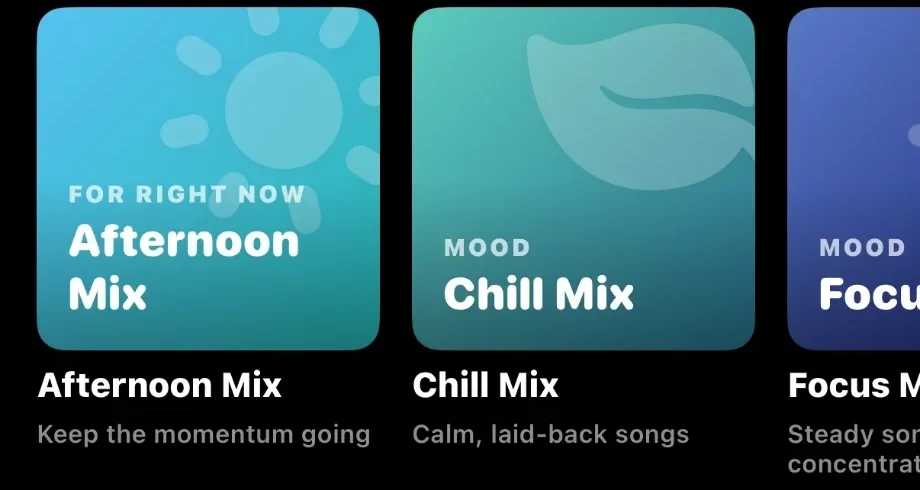
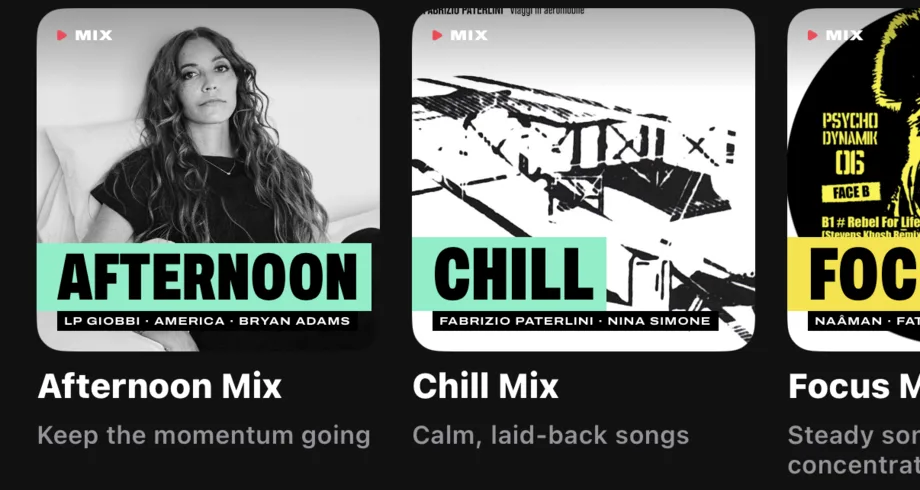
docs: the Made For You screenshot shows the editorial covers

diff --git a/README.md b/README.md
@@ -57,7 +57,7 @@ Each word lights as it is sung. The lines around it fall away in size, blur and 
 
 ## Made for you
 
-<img src="docs/assets/made-for-you.webp" width="640" alt="Three generated mixes side by side: Afternoon Mix labelled FOR RIGHT NOW, Chill Mix and Focus Mix labelled MOOD, each on its own gradient cover" />
+<img src="docs/assets/made-for-you.webp" width="640" alt="Three generated mixes side by side — Afternoon, Chill and Focus — each with an editorial cover: the most-played artist's photo, or their album art, under a bold title band in the mix's colour, with the mix's artists listed beneath" />
 
 **Instant Mix** builds a station from any song or artist. Above it, Aura generates mixes from what's actually in your library — by genre, by mood, by time of day — and a **Year Wrapped** retrospective from what you really played, counted on the device.
 
